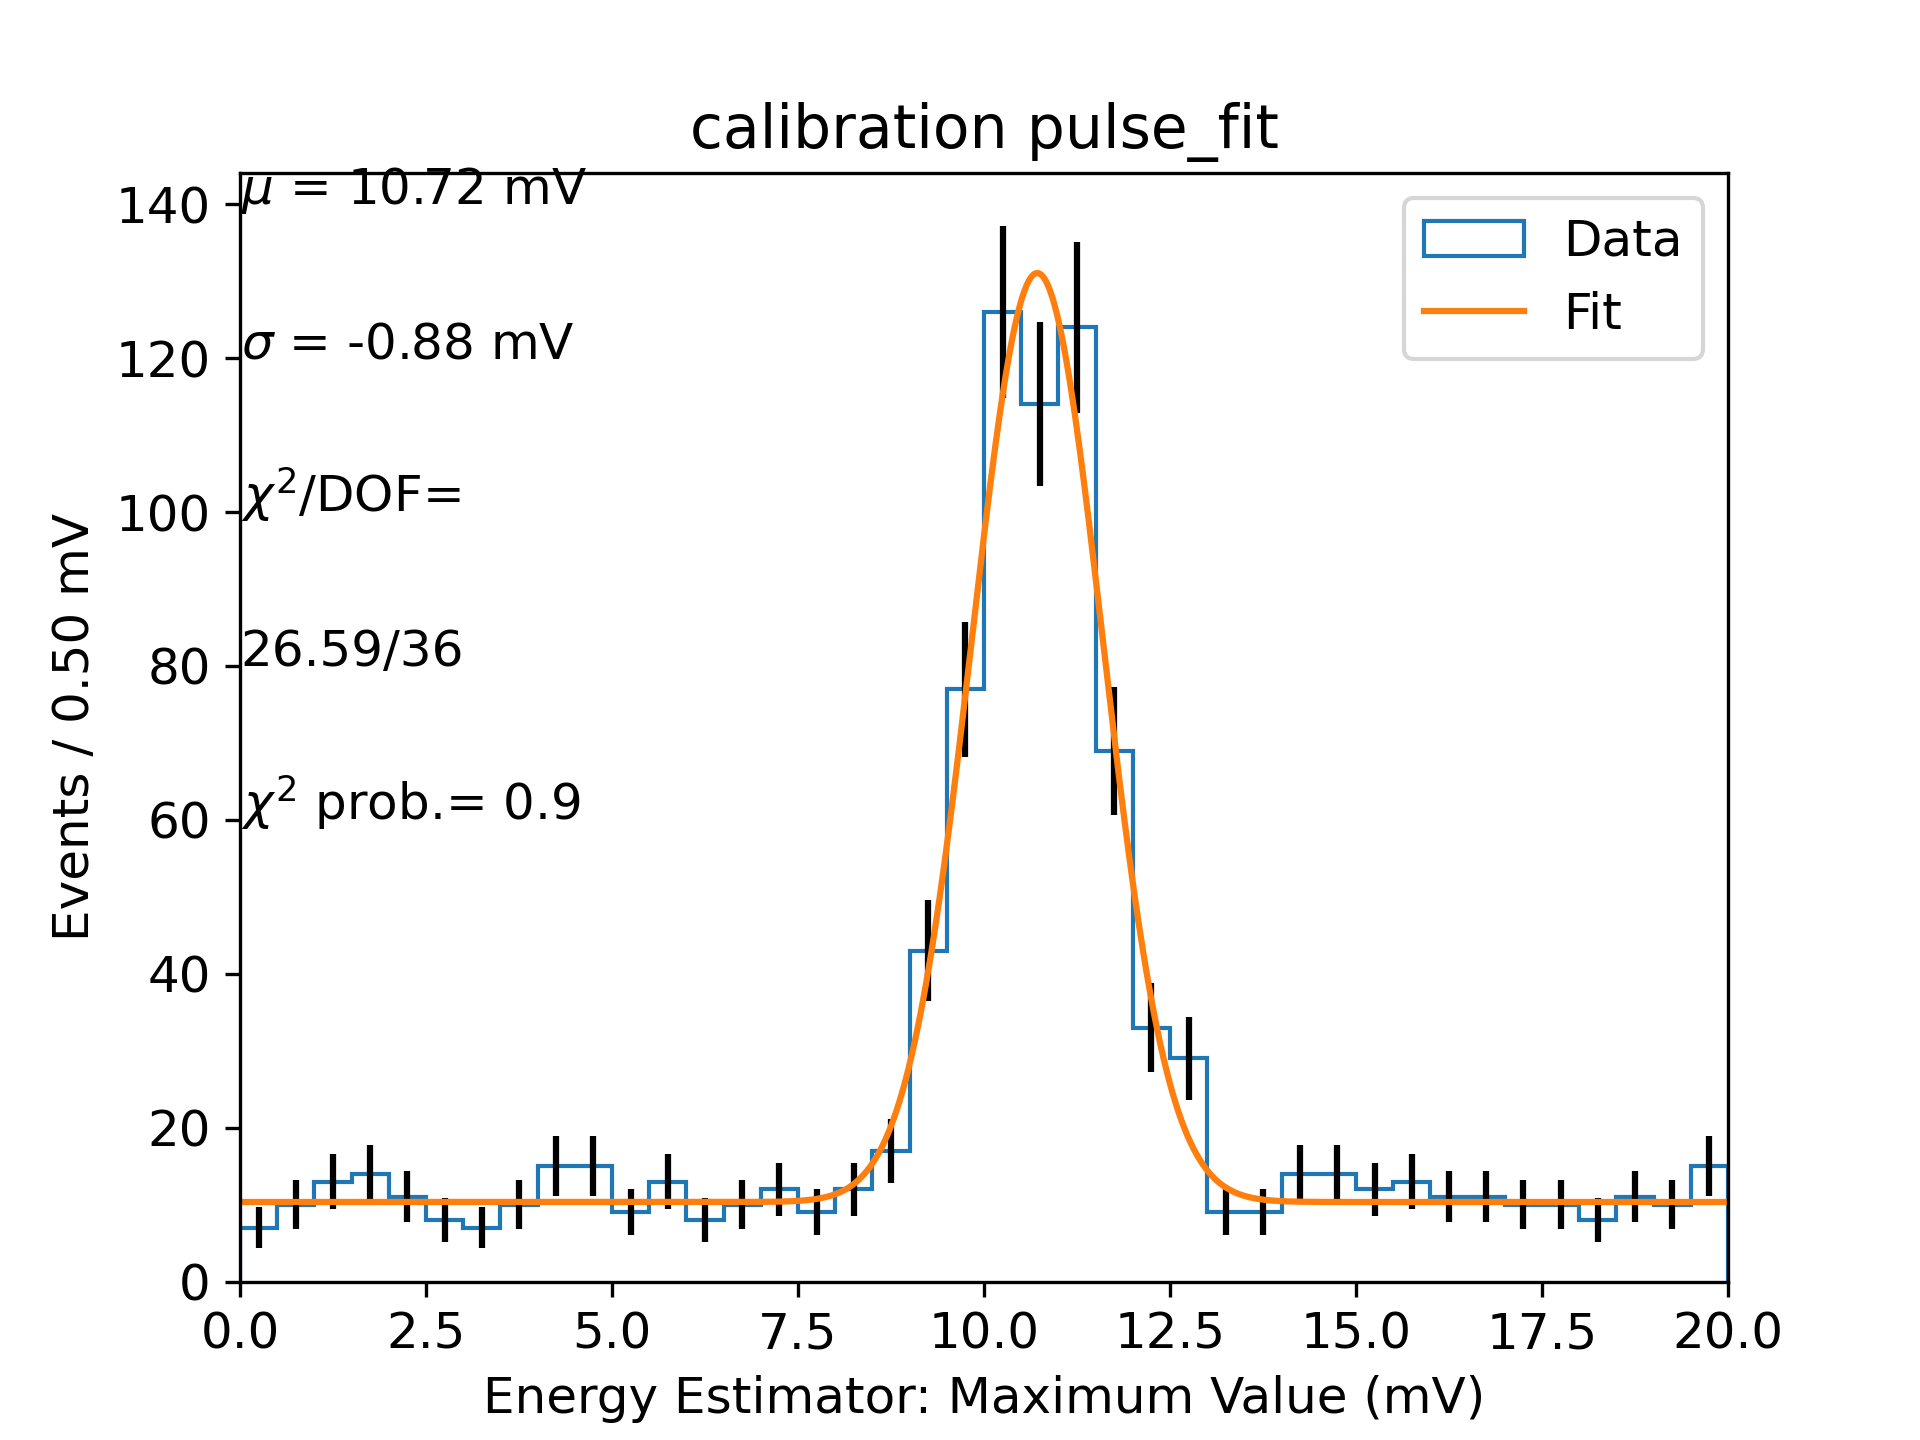
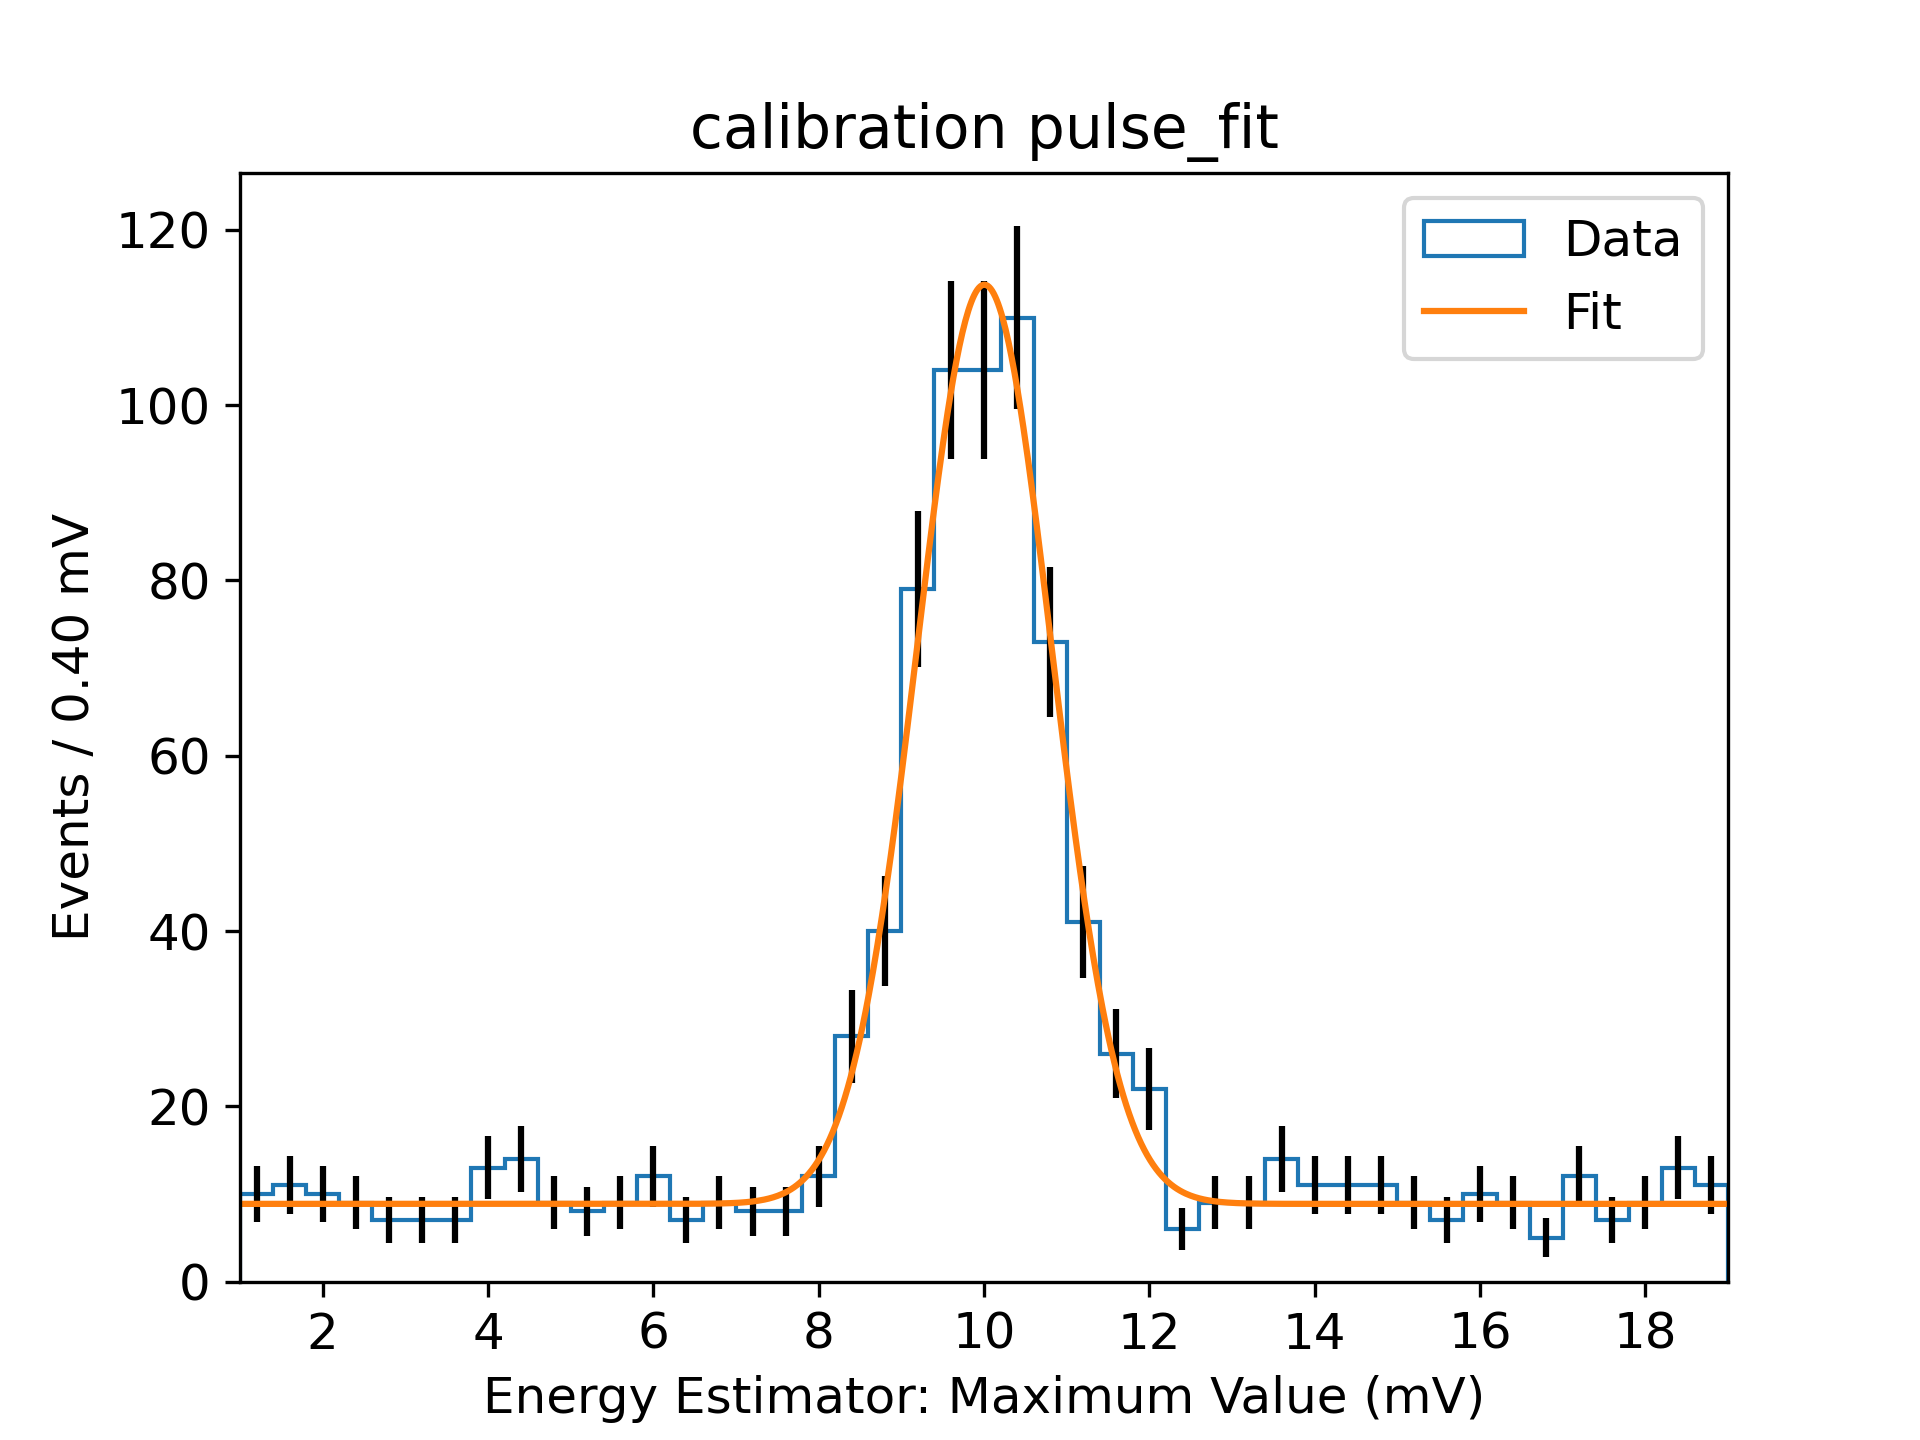
update

diff --git a/Data Analysis Assignment/Data_Analysis_Main.py b/Data Analysis Assignment/Data_Analysis_Main.py
@@ -150,11 +150,11 @@ def plotting(num_bins1, bin_range1, amps, p, title):
     fontsize = 12
     plt.plot(x_bestfit1, y_bestfit1, label='Fit')
     plt.title('original '+ title)
-    plt.text(0.01, 140, r'$\mu$ = %3.2f mV'%(popt1[1]), fontsize=fontsize)
-    plt.text(0.01, 120, r'$\sigma$ = %3.2f mV'%(popt1[2]), fontsize=fontsize)
-    plt.text(0.01, 100, r'$\chi^2$/DOF=', fontsize=fontsize)
-    plt.text(0.01, 80, r'%3.2f/%i'%(chisquared1,dof1), fontsize=fontsize)
-    plt.text(0.01, 60, r'$\chi^2$ prob.= %1.1f'%(1-chi2.cdf(chisquared1,dof1)), fontsize=fontsize)
+    # plt.text(0.01, 140, r'$\mu$ = %3.2f mV'%(popt1[1]), fontsize=fontsize)
+    # plt.text(0.01, 120, r'$\sigma$ = %3.2f mV'%(popt1[2]), fontsize=fontsize)
+    # plt.text(0.01, 100, r'$\chi^2$/DOF=', fontsize=fontsize)
+    # plt.text(0.01, 80, r'%3.2f/%i'%(chisquared1,dof1), fontsize=fontsize)
+    # plt.text(0.01, 60, r'$\chi^2$ prob.= %1.1f'%(1-chi2.cdf(chisquared1,dof1)), fontsize=fontsize)
 
 
     # find smallest sigma
@@ -277,11 +277,11 @@ def plotting_with_calibration(popt1, num_bins1, bin_range1, amps, p, title, coun
     fontsize = 12
     plt.plot(x_bestfit1, y_bestfit1, label='Fit')
     plt.title('calibration ' + title)
-    plt.text(0.01, 140, r'$\mu$ = %3.2f mV'%(popt1[1]), fontsize=fontsize)
-    plt.text(0.01, 120, r'$\sigma$ = %3.2f mV'%(popt1[2]), fontsize=fontsize)
-    plt.text(0.01, 100, r'$\chi^2$/DOF=', fontsize=fontsize)
-    plt.text(0.01, 80, r'%3.2f/%i'%(chisquared1,dof1), fontsize=fontsize)
-    plt.text(0.01, 60, r'$\chi^2$ prob.= %1.1f'%(1-chi2.cdf(chisquared1,dof1)), fontsize=fontsize)
+    # plt.text(0.01, 140, r'$\mu$ = %3.2f mV'%(popt1[1]), fontsize=fontsize)
+    # plt.text(0.01, 120, r'$\sigma$ = %3.2f mV'%(popt1[2]), fontsize=fontsize)
+    # plt.text(0.01, 100, r'$\chi^2$/DOF=', fontsize=fontsize)
+    # plt.text(0.01, 80, r'%3.2f/%i'%(chisquared1,dof1), fontsize=fontsize)
+    # plt.text(0.01, 60, r'$\chi^2$ prob.= %1.1f'%(1-chi2.cdf(chisquared1,dof1)), fontsize=fontsize)
 
 
     # find smallest sigma
@@ -301,8 +301,8 @@ p_1=[60, 0.31, 0.07, 5]        # myGauss(x, A, mean, width, base)
 num_bins_1_c=35
 bin_range_1_c=(7, 13)
 p_1_c=[80, 10, 2, 0]        # myGauss(x, A, mean, width, base)
-plotting_with_calibration(plotting(num_bins_1, bin_range_1, amp1, p_1, 'amp 1'),
-                          num_bins_1_c, bin_range_1_c, amp1, p_1_c, 'amp 1', 1)
+# plotting_with_calibration(plotting(num_bins_1, bin_range_1, amp1, p_1, 'amp 1'),
+#                           num_bins_1_c, bin_range_1_c, amp1, p_1_c, 'amp 1', 1)
 
 # graph 2
 num_bins_2=35
@@ -311,8 +311,8 @@ p_2=(200, 0.23, 0.1, 7)        # myGauss(x, A, mean, width, base)
 num_bins_2_c=25
 bin_range_2_c=(8, 12)
 p_2_c=(50, 10, 2, 5)        # myGauss(x, A, mean, width, base)
-plotting_with_calibration(plotting(num_bins_2, bin_range_2, amp2, p_2, 'amp 2'),
-                          num_bins_2_c, bin_range_2_c, amp2, p_2_c, 'amp 2', 2)
+# plotting_with_calibration(plotting(num_bins_2, bin_range_2, amp2, p_2, 'amp 2'),
+#                           num_bins_2_c, bin_range_2_c, amp2, p_2_c, 'amp 2', 2)
 
 # graph 3
 num_bins_3=35
@@ -321,8 +321,8 @@ p_3=(120,0,40,0)        # myGauss(x, A, mean, width, base)
 num_bins_3_c=50
 bin_range_3_c=(-200, 200)
 p_3_c=(1, 10, 20, 0)        # myGauss(x, A, mean, width, base)
-plotting_with_calibration(plotting(num_bins_3, bin_range_3, area1, p_3, 'area 1'),
-                          num_bins_3_c, bin_range_3_c, area1, p_3_c, 'area 1', 3)
+# plotting_with_calibration(plotting(num_bins_3, bin_range_3, area1, p_3, 'area 1'),
+#                           num_bins_3_c, bin_range_3_c, area1, p_3_c, 'area 1', 3)
 
 # graph 4
 num_bins_4=40
@@ -331,8 +331,8 @@ p_4=(100,50,150,0)        # myGauss(x, A, mean, width, base)
 num_bins_4_c=40
 bin_range_4_c=(-100, 100)
 p_4_c=(150, 10, 100, 0)        # myGauss(x, A, mean, width, base)
-plotting_with_calibration(plotting(num_bins_4, bin_range_4, area2, p_4, 'area 2'),
-                          num_bins_4_c, bin_range_4_c, area2, p_4_c, 'area 2', 4)
+# plotting_with_calibration(plotting(num_bins_4, bin_range_4, area2, p_4, 'area 2'),
+#                           num_bins_4_c, bin_range_4_c, area2, p_4_c, 'area 2', 4)
 
 # graph 5
 num_bins_5=40
@@ -341,15 +341,15 @@ p_5=(60,10,5,0)        # myGauss(x, A, mean, width, base)
 num_bins_5_c=40
 bin_range_5_c=(2, 15)
 p_5_c=(300,10,5,0)        # myGauss(x, A, mean, width, base)
-plotting_with_calibration(plotting(num_bins_5, bin_range_5, area3, p_5, 'area 3'),
-                          num_bins_5_c, bin_range_5_c, area3, p_5_c, 'area 3', 5)
+# plotting_with_calibration(plotting(num_bins_5, bin_range_5, area3, p_5, 'area 3'),
+#                           num_bins_5_c, bin_range_5_c, area3, p_5_c, 'area 3', 5)
 
 # graph 6
 num_bins_6=40
-bin_range_6=(-5, 5)
-p_6=(800,0,1,0)        # myGauss(x, A, mean, width, base)
-num_bins_6_c=40
-bin_range_6_c=(0, 20)
+bin_range_6=(0, 0.4)
+p_6=(300,0.25,0.1,0)        # myGauss(x, A, mean, width, base)
+num_bins_6_c=45
+bin_range_6_c=(1, 19)
 p_6_c=(125,10,5,0)         # myGauss(x, A, mean, width, base)
 plotting_with_calibration(plotting(num_bins_6, bin_range_6, pulse_fit, p_6, 'pulse_fit'),
                           num_bins_6_c, bin_range_6_c, pulse_fit, p_6_c, 'pulse_fit', 6)
